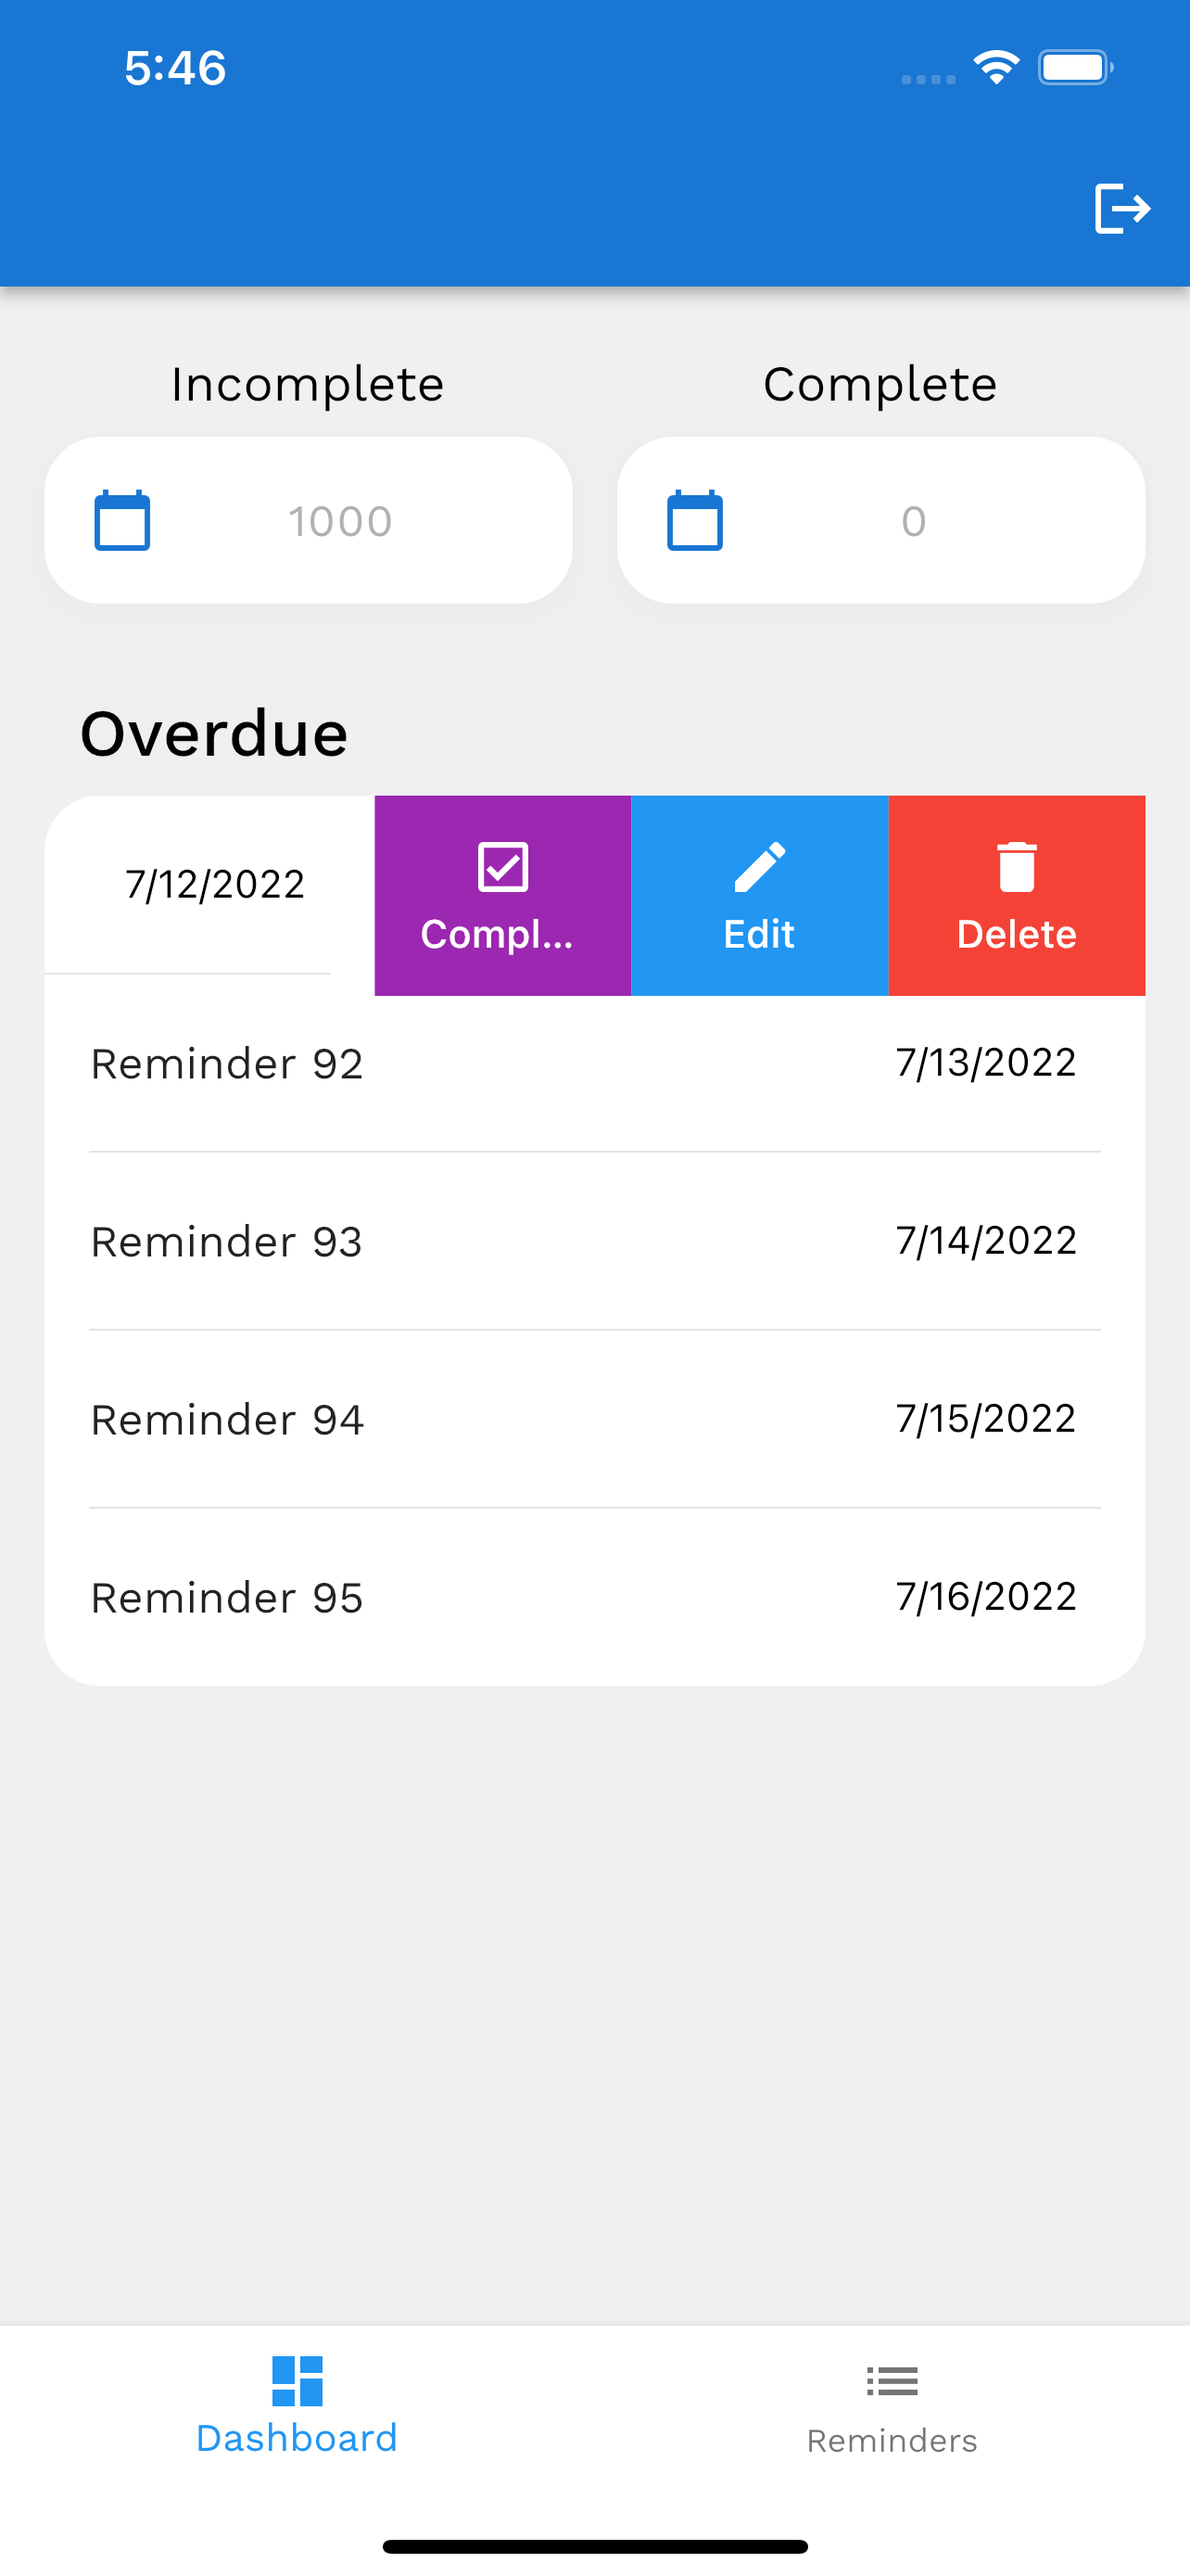
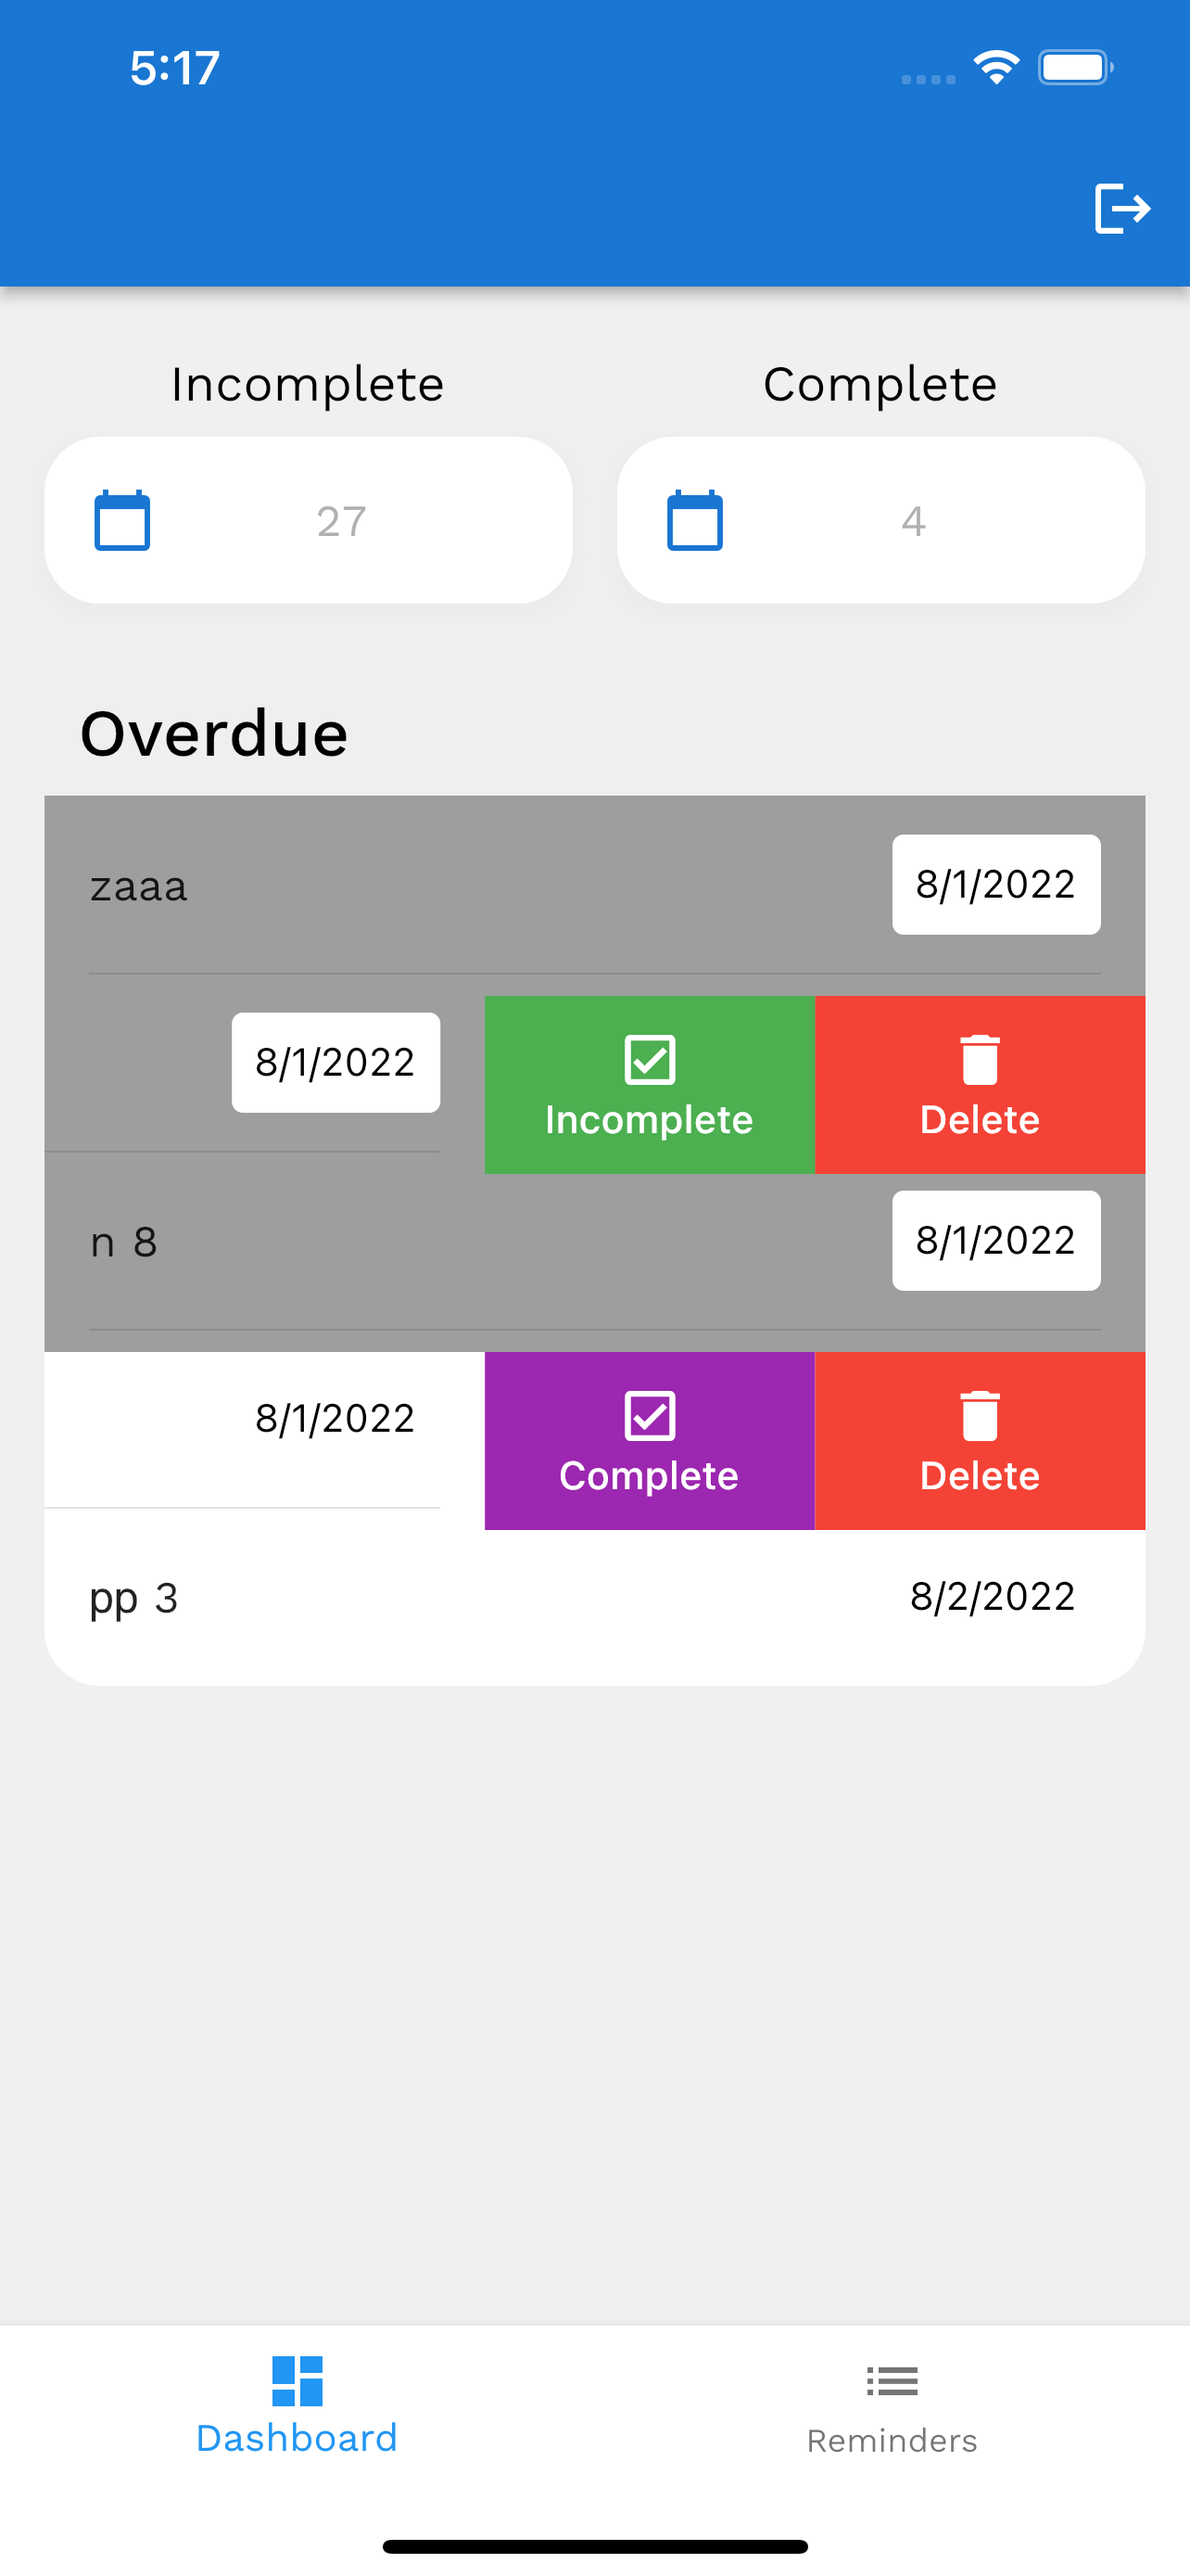
Update documentation : remove image with and edit option , add one image with a loading indicator on the login page and groups on the reminders page

diff --git a/examples/reminders/app_spec.md b/examples/reminders/app_spec.md
@@ -14,6 +14,13 @@ This is a user application specification of the reminders sample app.
   - Tapping on the "Log in with facebook" starts the facebook login process.
   - After a users taps on either of the buttons a circular loading indicator is displayed, while the next page is loading with the data from the web.
 
+### Login Page Loading
+
+<img src="assets/images/login_page_loading.png" width="350">
+<br/><br/>
+
+  - Shows a loading indicator, while the login process is being executed.
+
 ### Navigation Page
 
 <img src="assets/images/navigation_screen.png" width="350">
@@ -27,6 +34,7 @@ This is a user application specification of the reminders sample app.
   - User can see a counter of the incomplete reminders and a counter for the complete reminders.
   - Bellow the counters the user sees an "Overdue" list of only incomplete reminders.
   - When the page is loaded for the first time the length of the fetched list is up to 5 reminders, sorted by due date in descending order. The start date is 10 days subtracted from today and the end date is today.
+  - When a reminder id on the Dashboard page and is marked as complete, regardless from which page, it is removed from the Dashboard page.
 
 ### Pull To Refresh Dashboard List Page
 
@@ -37,9 +45,9 @@ This is a user application specification of the reminders sample app.
 <img src="assets/images/reminder_edit_options.png" width="350">
 <br/><br/>
 
-  - User can slide the reminder tile and see three options: Complete, Edit, Delete.
-  - User can tap on the Edit button, but this functionality is not implemented and nothing happens.
+  - User can slide the reminder tile and see 2 options: Complete/Incomplete, Delete.
   - User can slide back the reminder tile to hide the edit options, when doing this the reminder will not be updated.
+  - When a reminder is marked as completed, its color is changed to grey, so that the user knows, which reminders are completed.
 
 ### Reminder Completed
 
@@ -71,13 +79,14 @@ This is a user application specification of the reminders sample app.
   - User can tap on a date after today. When this happens, the reminder is removed from the dashboard list and displayed in the Reminders list page.
   - User can tap on a date, which is 10 days before today. When this happens, the reminder is removed from the dashboard list and displayed in the Reminders list page.
 
-### Reminder List Screen Today
+### Reminder List Screen Groups
 
-<img src="assets/images/reminder_list_today.png" width="350">
+<img src="assets/images/reminder_groups.png" width="350">
 <br/><br/>
 
   - When the page is loaded for the first time, a circular loading indicator is displayed in the middle of the screen.
   - When the page is loaded for the first time, the first 10 reminders in the reminders list are fetched. There is pagination on the list with a size of 10 of each page. The list is filtered by due date descending.
+  - There are 4 groups of reminders on the page according to their due date: 'Old', 'Today', 'This month', 'This year'. 'Old' has all reminders before today, 'Today' has all reminders from today, 'This month' has all reminders from tomorrow until the end of the current month and 'This year' has all reminders from the beginning of the next month until the end of the year.
 
 ### Pull To Refresh Reminder List Page
 
